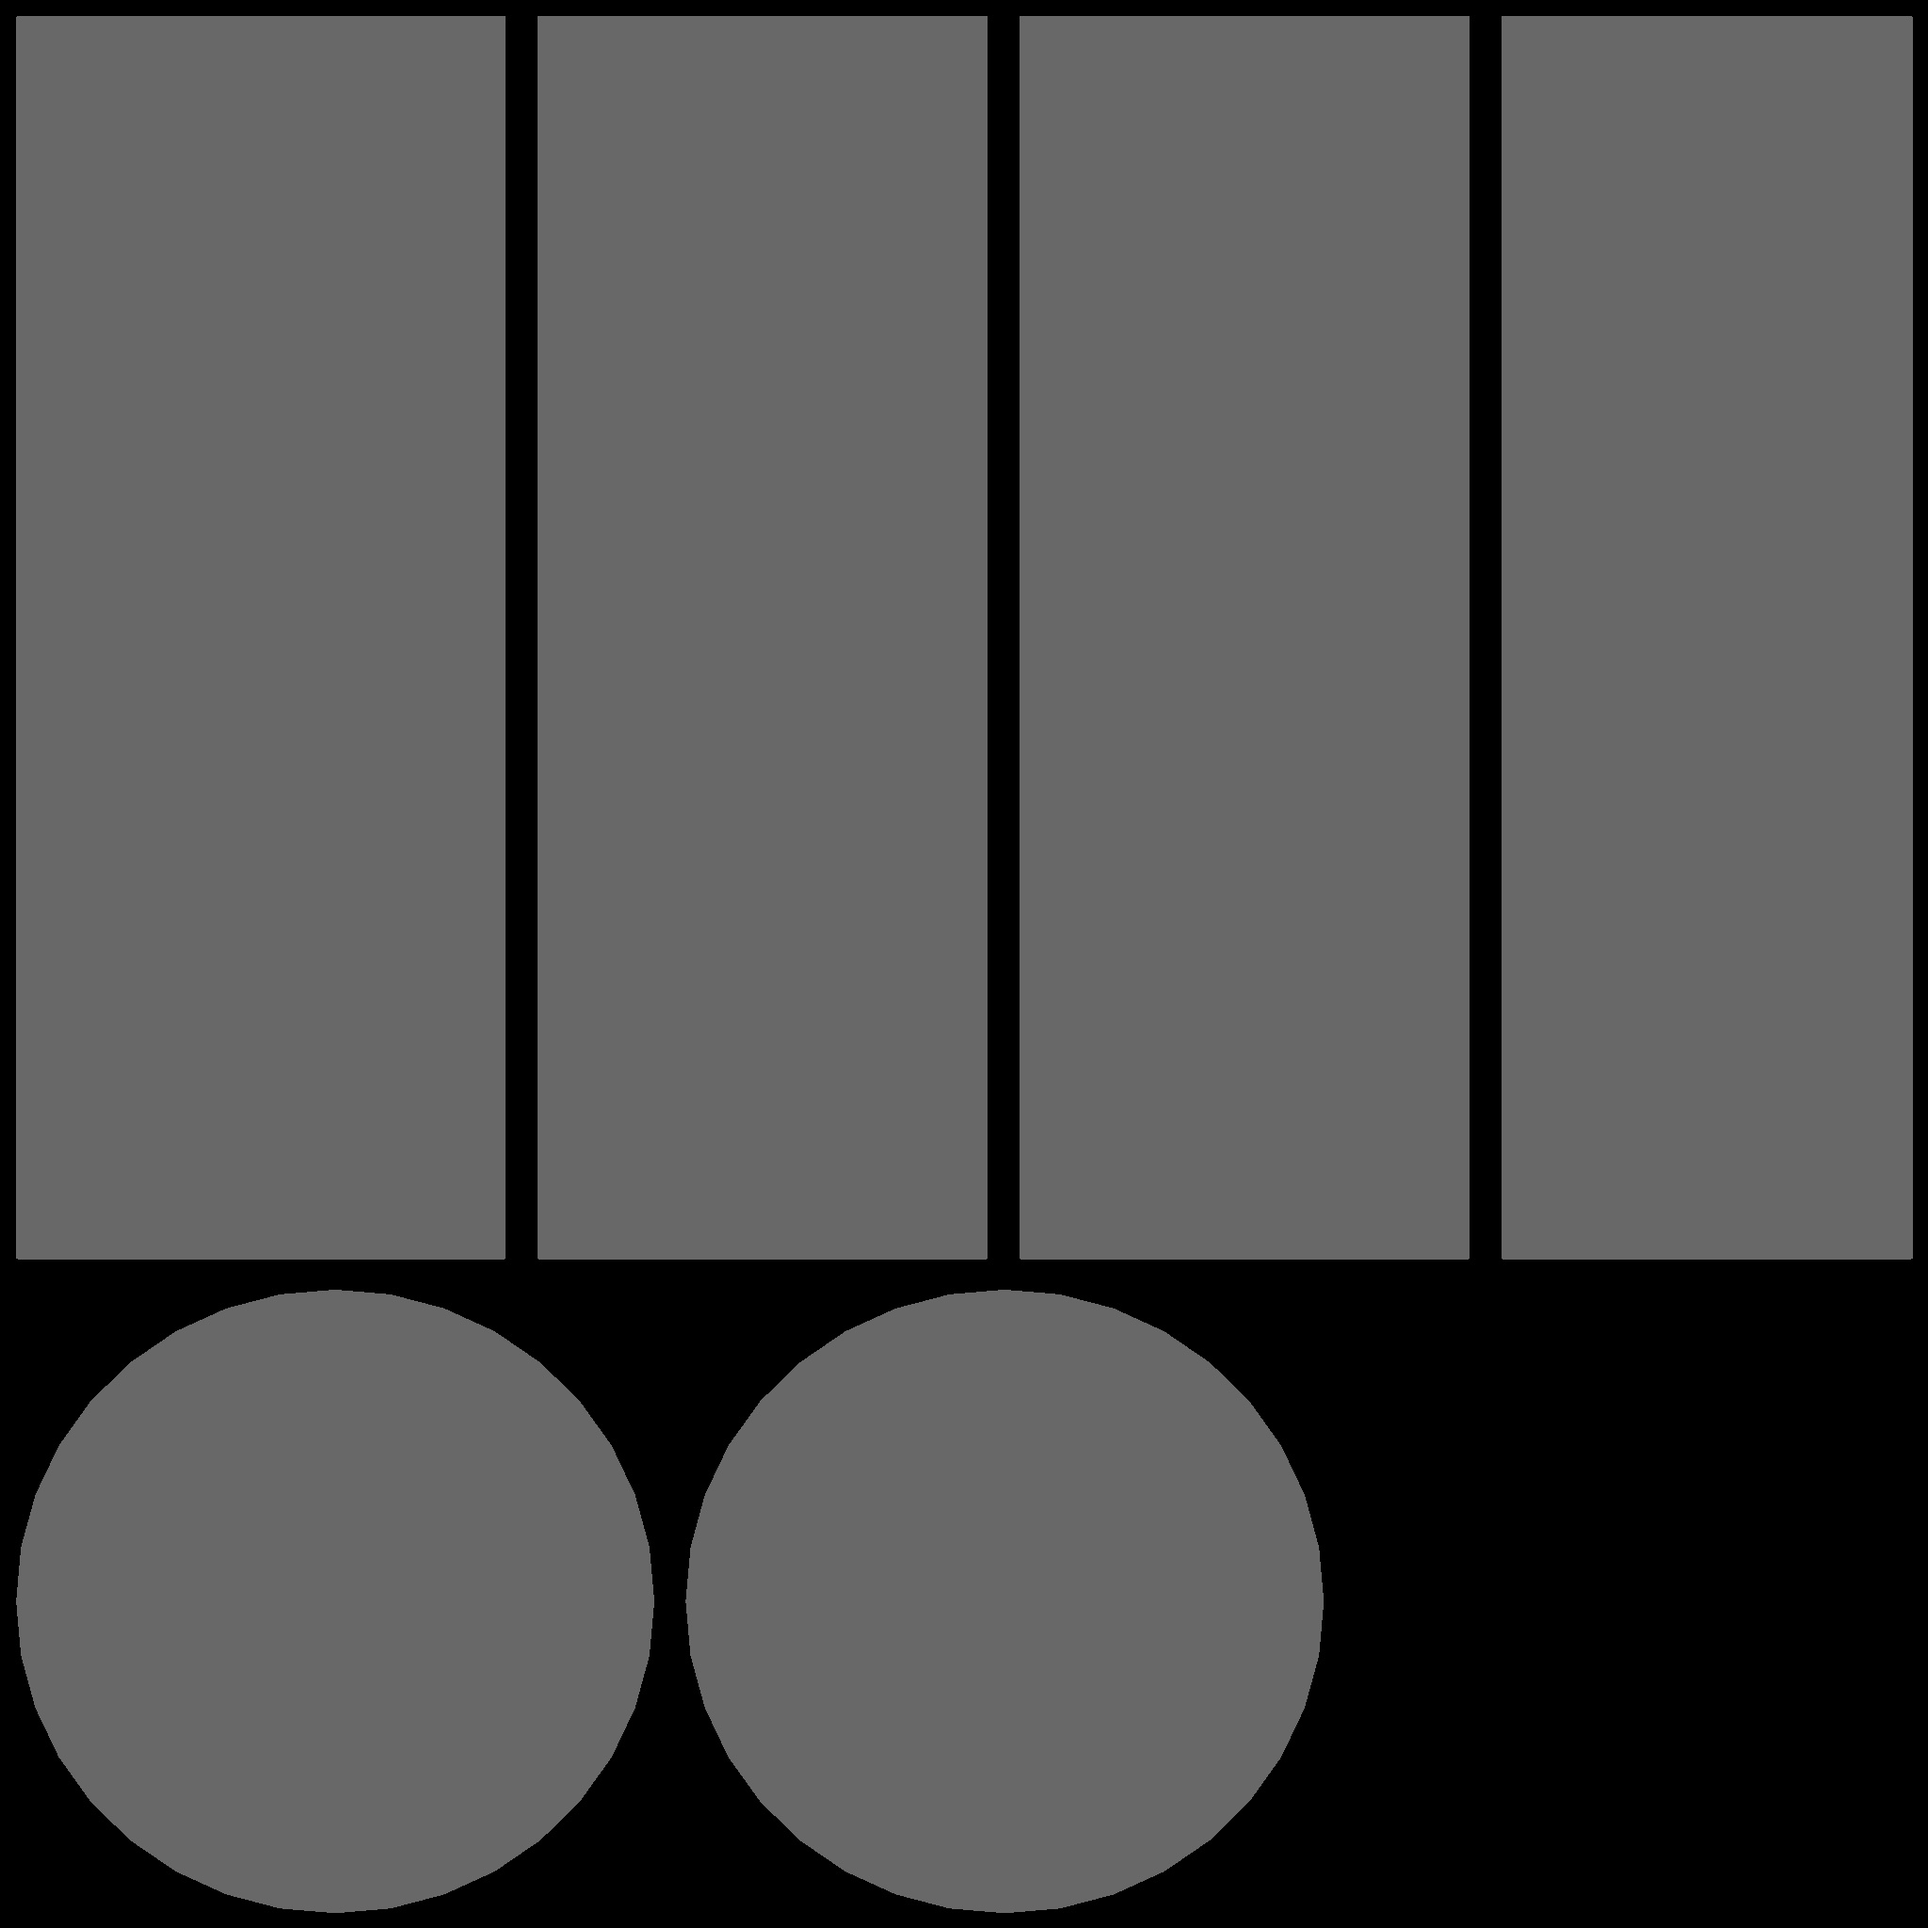
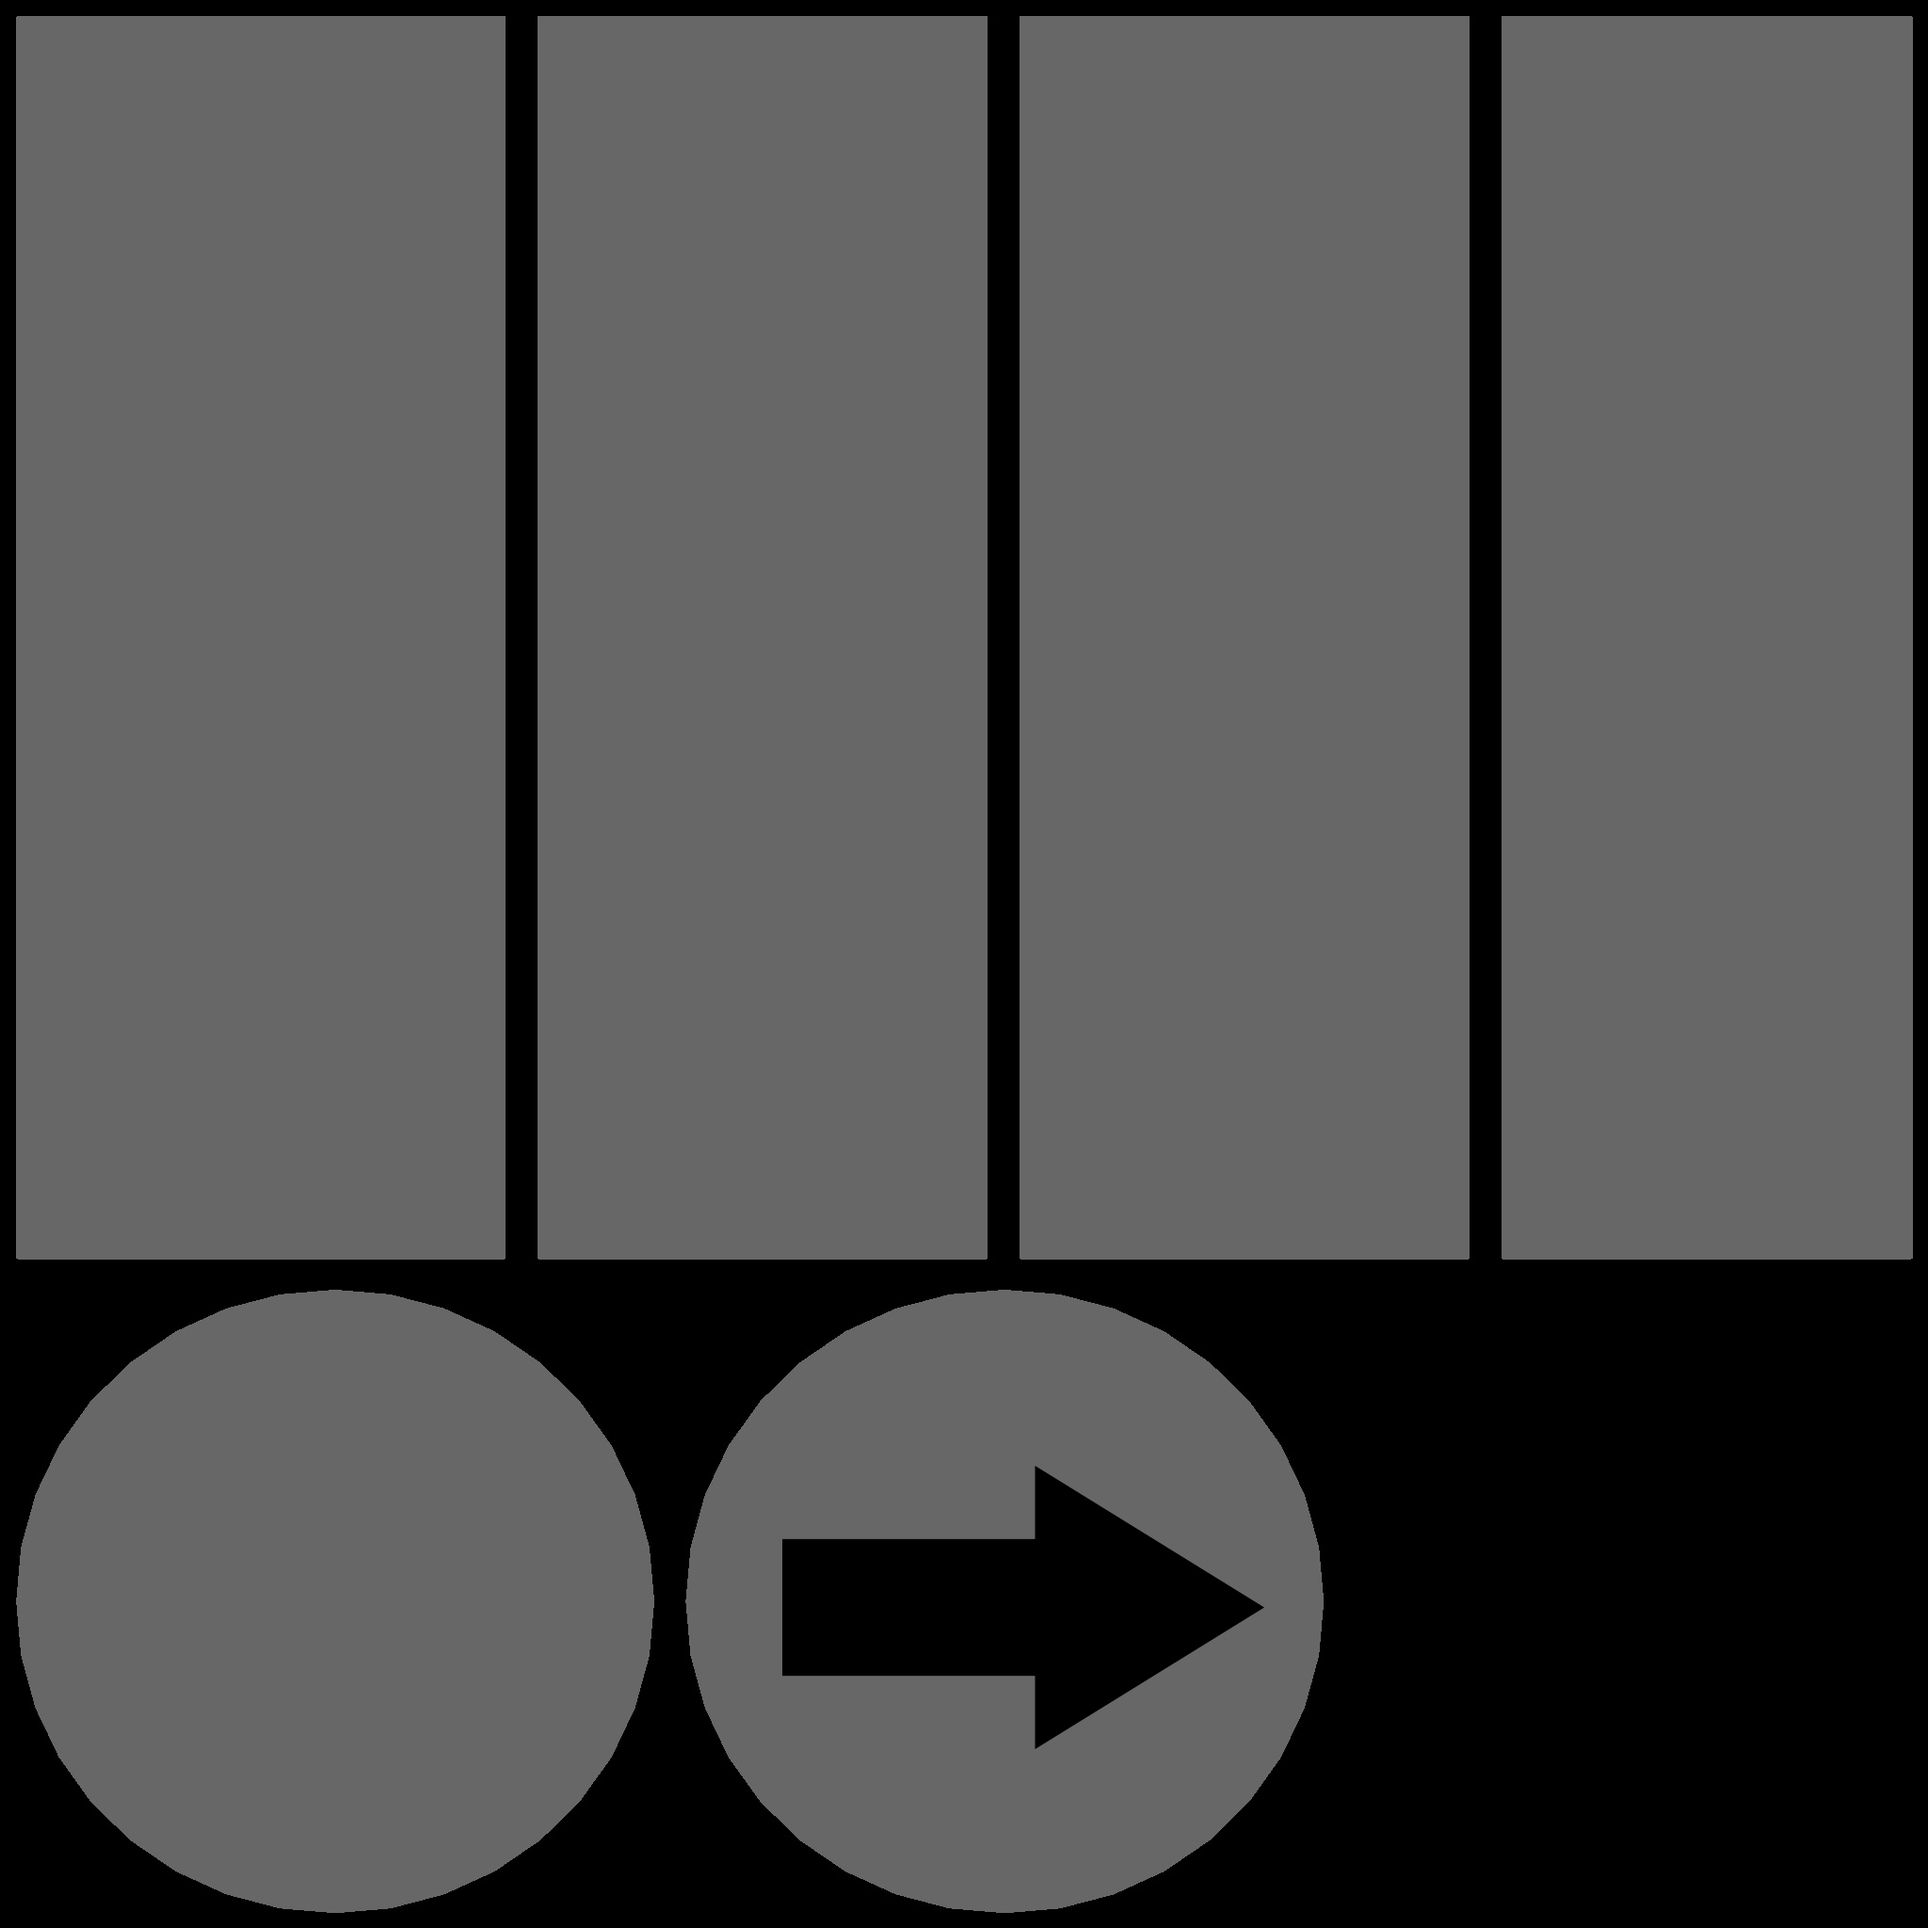
corrcected circle mesh and added rotation to circle

Changed region(s): [[0.4062, 0.75, 0.6562, 0.9062]]

diff --git a/apps/HciApp/widgets/Circle3D.qml b/apps/HciApp/widgets/Circle3D.qml
@@ -7,8 +7,85 @@ import "../framework"
 
 Item3D {
     id: middleCircle
-    mesh: Mesh { source: "qrc:/models/meshs/circle.3ds" }
+    mesh: Mesh { source: "qrc:/models/meshs/circle3.3ds" }
     effect: LightShader {
      //texture: "../framework/componentBase.png"
+    }
+
+    transform {
+        Rotation3D {
+            angle: 90
+            axis: Qt.vector3d(1,0,0)
+        }
+
+        Rotation3D {
+            id: zAxisRotation
+            angle: 0
+            axis: Qt.vector3d(0,0,1)
+        }
+    }
+
+    SequentialAnimation {
+        id: arrowRotationAnimation
+        NumberAnimation {
+            id: zAxisFullRotationAnimation
+            target: zAxisRotation
+            properties: "angle"
+            duration: 1400
+            from: 0
+            to: 360
+            loops: 0
+        }
+
+        NumberAnimation {
+            id: zAxisAngleRotationAnimation
+            target: zAxisRotation
+            properties: "angle"
+            duration: 500
+            from: 0
+            to: 0
+        }
+    }
+
+    function mtqTap(position, id) {
+        rotateToPlayer(3)
+    }
+
+
+    /**
+      *******************************
+      *             *               *
+      *  player 1   *    player 2   *
+      *             *               *
+      *******************************
+      *             *               *
+      *  player 3   *    player 4   *
+      *             *               *
+      *******************************
+      */
+    function rotateToPlayer(player) {
+        var angle, duration
+        var fullDurationSlow = 2000
+        switch (player) {
+            case 1:
+                angle = 135
+                break;
+            case 2:
+                angle = 45
+                break;
+            case 3:
+                angle = 225
+                break;
+            case 4:
+                angle = 315
+                break;
+        }
+
+        // adapt rotation speed to the angle of the rotation
+        duration = fullDurationSlow * (angle / 360)
+
+        zAxisAngleRotationAnimation.to = angle
+        zAxisAngleRotationAnimation.duration = duration
+        arrowRotationAnimation.start()
     }
 }

diff --git a/apps/HciApp/floorScene.qml b/apps/HciApp/floorScene.qml
@@ -9,9 +9,20 @@ import "widgets"
 
 Item3D {
 
+    /**
+      *******************************
+      *             *               *
+      *  player 1   *    player 2   *
+      *             *               *
+      *******************************
+      *             *               *
+      *  player 3   *    player 4   *
+      *             *               *
+      *******************************
+      */
+
     Component.onCompleted: {
         parent.sceneEnabled.connect(setupLight);
-        //test();
     }
 
     function setupLight(){
@@ -41,12 +52,6 @@ Item3D {
 
     Item3D {
         id:floorElems
-        transform {
-            Rotation3D {
-                angle: 90
-                axis: Qt.vector3d(0,0,1)
-            }
-        }
         scale: 2.3
 
         Ring3D {

diff --git a/apps/HciApp/widgets/Stage3D.qml b/apps/HciApp/widgets/Stage3D.qml
@@ -8,6 +8,17 @@ import "../framework"
 Item3D {
     id: stageElem
     effect: LightShader {
-     //texture: "../framework/componentBase.png"
+        texture: "../framework/componentBase.png"
+    }
+
+    Translation3D {
+        translate: Qt.vector3d(0,0,-1)
+    }
+
+    transform {
+        Rotation3D {
+            angle: 90
+            axis: Qt.vector3d(0,0,1)
+        }
     }
 }

diff --git a/apps/HciApp/widgets/StageTopLeft.qml b/apps/HciApp/widgets/StageTopLeft.qml
@@ -7,4 +7,9 @@ import "../framework"
 
 Stage3D {
     mesh: Mesh { source: "qrc:/models/meshs/topleft.3ds" }
+    effect: LightShader {
+        //glow: Qt.vector3d(232,192,32)
+    }
+
+
 }
